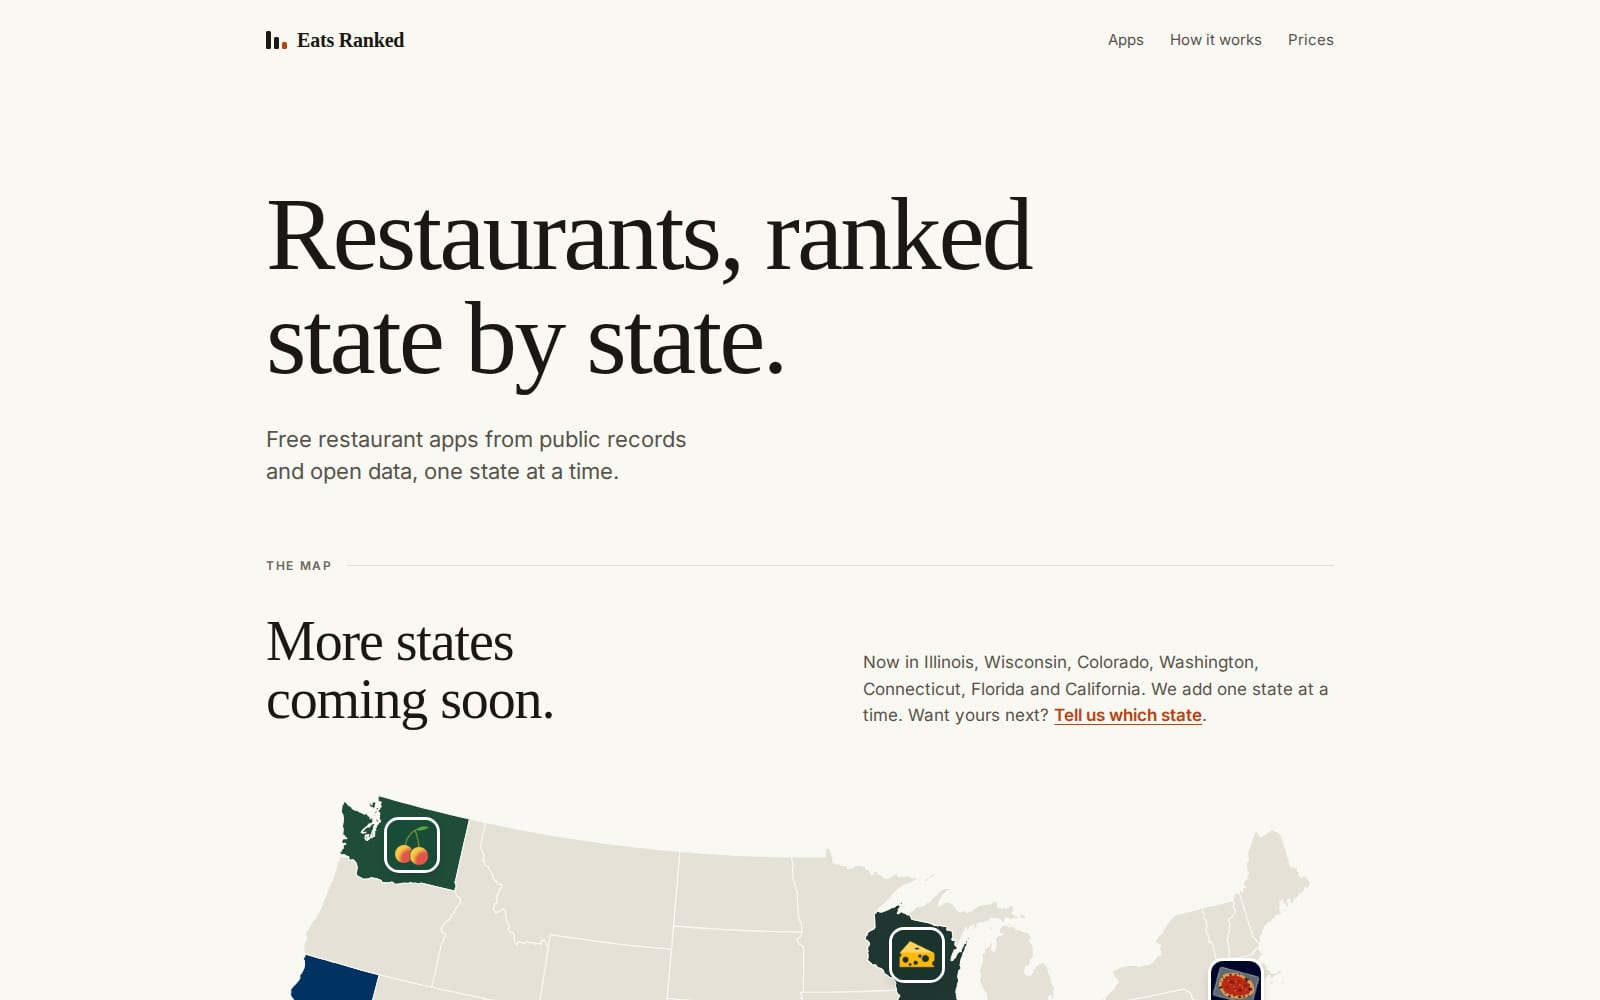
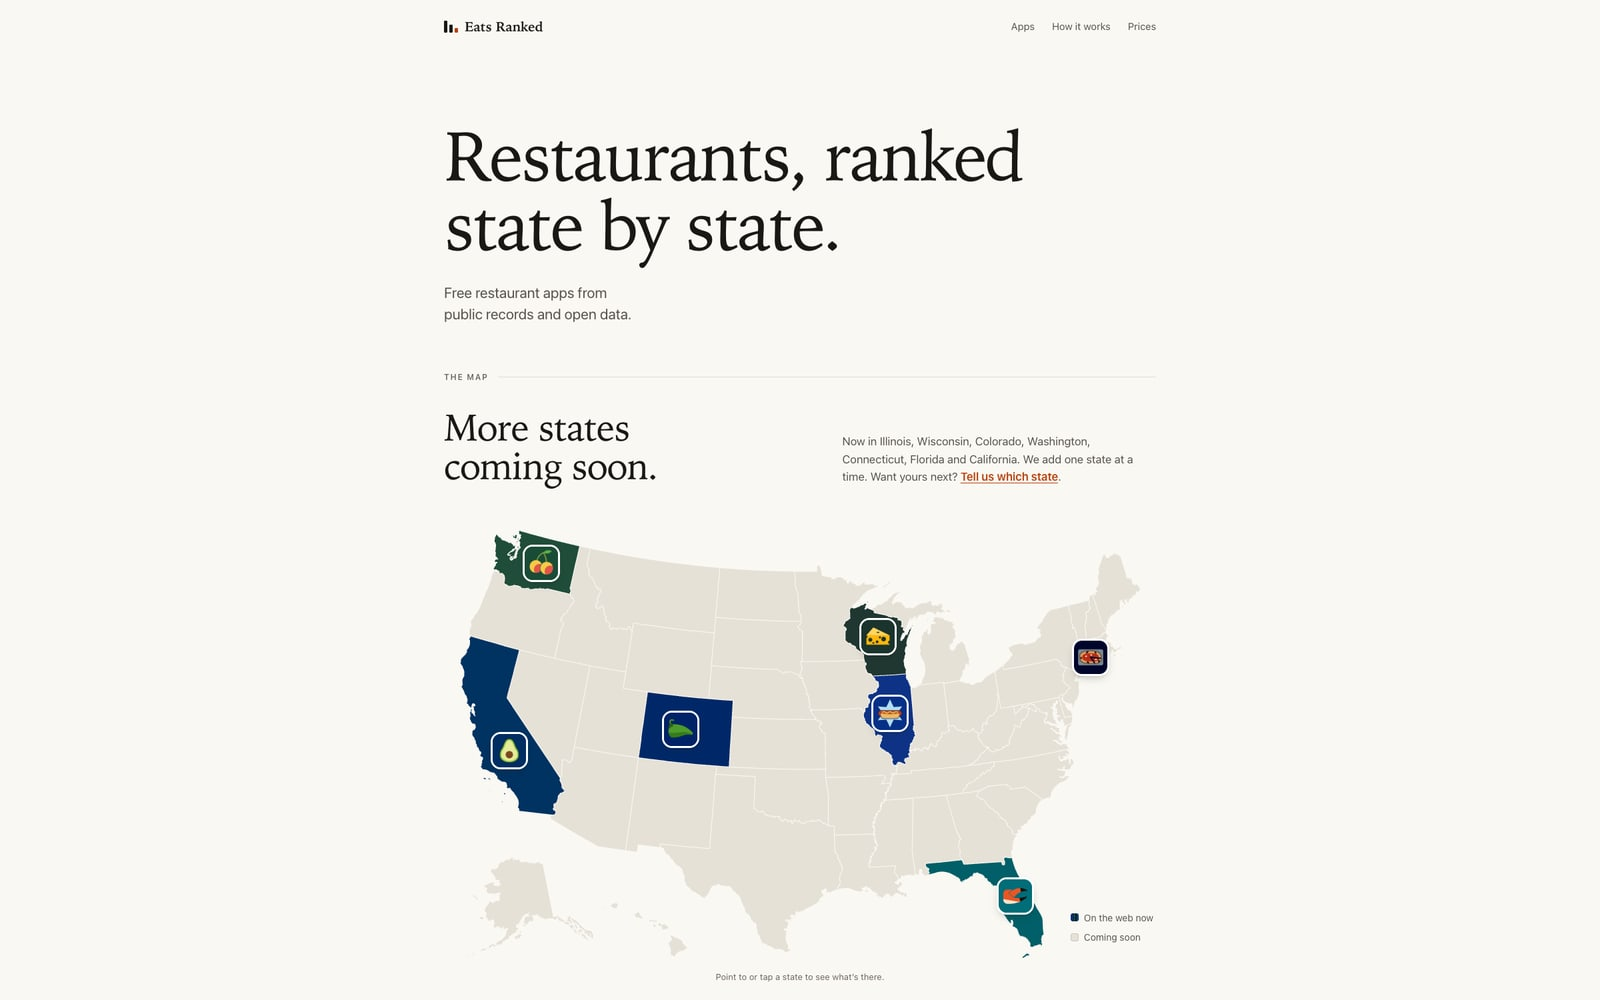
Eats Ranked: present the whole family, fresh eatsranked.com shots, one button (#75)
- The story reads as the Eats Ranked family: blocks are 'Inspection records', 'Local favorites', 'One state at a
  time' and 'Kept current', with states as examples (LA County inspections, Seattle teriyaki, the Connecticut site,
  Chicago's weekly refresh), not a Wisconsin or Chicago page.
- New captures of the live eatsranked.com (map first, the new shared-style state icons) and the guide cards.
- Only the 'Visit eatsranked.com' button; status 'Live on the web in seven states · iPhone and iPad apps coming soon'.
- Corrected App Review claims: only Wisconsin Eats has been submitted; none is on the App Store yet (also apps.json).
- apps.astro: laptop heroes (Eats Ranked, LaunchNeat, This website, SignalRig) go one column at phone/tablet widths.
- Removed showcase images nothing references any more.

diff --git a/src/data/showcase.ts b/src/data/showcase.ts
@@ -120,47 +120,48 @@ export const projects: Project[] = [
     tone: 'light',
     hero: {
       title: 'Where to eat, from the public record.',
-      sub: 'Eats Ranked is a set of free restaurant guides, one per state, built from public records, open map data and cited public sources. Each state gets an iPhone and iPad app, a website and a web version, plus lists of local favorites checked one place at a time, from Wisconsin fish fries to New Haven apizza. Seven states are live on the web, and the first two apps, Chicago and Wisconsin, have been submitted to Apple for review.',
+      sub: 'Eats Ranked is a family of free restaurant guides, one per state, built from public records, open map data and cited public sources. Each state gets its own iPhone and iPad app, a website and a web version, with local favorites checked one place at a time, from Wisconsin fish fries to New Haven apizza. Seven states are live on the web, and the first app, Wisconsin Eats, has been submitted to Apple.',
       screen: 'image',
-      image: '/showcase/eatsranked-chicago-home.jpg',
-      alt: 'Chicago Restaurants: Ranked on iPhone: the home screen with Cleanest Kitchens, Hot Dogs & Beef, Michelin & Beard and Chicago Icons',
+      image: '/showcase/eatsranked-guides.jpg',
+      frame: 'laptop',
+      alt: 'eatsranked.com, Restaurant guides by state: the cards for Chicago Restaurants: Ranked, Wisconsin Eats, Colorado Eats and Washington Eats, each with its icon, its tagline, a link to its website and “Coming soon to the App Store”',
     },
     siteShot: {
       desktop: '/showcase/eatsranked-site.jpg',
-      caption: 'eatsranked.com: one static page generated from a single data file of states and prices, with a map of the live states, a card for each and a restaurant-prices section built from Bureau of Labor Statistics data. No cookies, no analytics, no requests to other sites.',
+      caption: 'eatsranked.com: one static page generated from a single data file of states and prices. It opens with a map of the live states, and each state’s icon links to its site; further down are a card for each app and a restaurant-prices section built from Bureau of Labor Statistics data. No cookies, no analytics, no requests to other sites.',
       url: 'https://eatsranked.com',
     },
     features: [
       {
-        eyebrow: 'Chicago Restaurants: Ranked',
-        title: 'A letter grade the City doesn’t give.',
-        body: 'Chicago records inspection results such as Pass, Pass with Conditions or Fail, never a letter grade. The app turns the results since January 2023 into a 0–100 score and an A–F grade for more than 7,000 Chicago restaurants, and every screen that shows a grade says it is the app’s own, not the City’s. Around them: boards like Hot Dogs & Beef and Michelin & Beard, and 17,000+ more restaurants elsewhere in Illinois.',
+        eyebrow: 'Inspection records',
+        title: 'Inspection results, as each agency publishes them.',
+        body: 'Where an agency’s inspection data can be used, the apps show its results as recorded and never re-grade them: Florida’s statewide inspection results, LA County’s letter grades, King County’s food safety ratings. Search-only portals and data published without a license are left out. Chicago records results such as Pass, Pass with Conditions or Fail but no letter grade, so the Chicago app adds its own: a 0–100 score and an A–F grade from the results since January 2023, for more than 7,000 restaurants. Every screen that shows a grade says it is the app’s, not the City’s.',
         screen: 'image',
-        image: '/showcase/eatsranked-chicago-place.jpg',
-        alt: 'Chicago Restaurants: Ranked place page for Au Cheval: the app’s own A grade (not the City’s), an inspection score of 84/100 and its City inspection record since January 2023',
+        image: '/showcase/eatsranked-california-inspections.jpg',
+        alt: 'California Eats on iPhone, the Inspections guide: LA County’s official score and letter grade at the latest inspection, as LA County records them, with the note “We never compute a grade of our own”; 25,591 places, best latest result first, the first three Grade A with a score of 100',
       },
       {
-        eyebrow: 'Wisconsin Eats',
-        title: 'Friday fish fry, checked one place at a time.',
-        body: 'The guides list 402 Friday fish fries (313 of them with the fish they serve), 211 supper clubs and 28 frozen custard stands. Research agents checked each one against a 2025–26 source, such as its own site or menu or a dated news story. Around them sit 16,346 restaurants in 828 towns. The app stores no ratings or reviews: ratings, hours and photos open in Apple Maps’ own place card.',
+        eyebrow: 'Local favorites',
+        title: 'Each state’s own food, checked one place at a time.',
+        body: 'From Wisconsin on, every app has guides to its state’s food traditions: fish fries and supper clubs in Wisconsin, green chile in Colorado, Seattle teriyaki in Washington, New Haven apizza in Connecticut, stone crabs and Cuban sandwiches in Florida, taquerías and dim sum in California. Research agents checked each place against a 2025–26 source, such as its own site or menu or a dated news story, and the guides list only places checked open. Wisconsin’s alone has 402 Friday fish fries and 211 supper clubs. The apps store no customer reviews or star ratings; ratings, hours and photos open in Apple Maps’ own place card.',
         screen: 'image',
-        image: '/showcase/eatsranked-wisconsin-fishfry.jpg',
-        alt: 'Wisconsin Eats on iPhone: the Friday Fish Fry guide, 402 places sorted nearest first',
+        image: '/showcase/eatsranked-washington-teriyaki.jpg',
+        alt: 'Washington Eats on iPhone, one of the seven apps: the Seattle Teriyaki guide, hand-checked teriyaki counters statewide with what each one serves, 179 places sorted nearest first',
         flip: true,
       },
       {
         eyebrow: 'One state at a time',
         title: 'Five more states live in four days.',
-        body: 'Chicago and Wisconsin came first, in late September. Between October 5 and 8, Colorado, Washington, Connecticut, Florida and California went live on the web, each built on the Wisconsin model and fitted to what each state or county publishes: Florida’s statewide inspection results, LA County’s grades, King County’s food safety ratings. In these five apps, official results are shown as recorded, never re-graded.',
+        body: 'Chicago and Wisconsin came first, in late September. Between October 5 and 8, Colorado, Washington, Connecticut, Florida and California went live on the web, each built from one shared playbook and fitted to what its state, counties and cities publish, with its own name, icon, palette and guides. What one state’s QA round catches goes into the playbook for the next.',
         screen: 'image',
-        image: '/showcase/eatsranked-map.jpg',
-        alt: 'eatsranked.com map of the United States with Washington, California, Colorado, Wisconsin, Illinois, Connecticut and Florida filled in',
+        image: '/showcase/eatsranked-connecticut-site.jpg',
+        alt: 'The Connecticut Eats website, one of the five: its own navy and tomato-red palette, its apizza icon, links to its Apizza, Lobster rolls, Hot dogs and Diners guides, and counts of 27 apizza places, 58 lobster roll and clam shack stops, 45 diners and dairy bars and 9,358 restaurants statewide',
         frame: 'laptop',
       },
       {
-        eyebrow: 'Fresh every week',
-        title: 'New City records, checked before they ship.',
-        body: 'A Python pipeline, scheduled for every Monday, refetches Chicago’s records and publishes only if every check passes: Chicago counts within 5% of the data already published, no more than 10% of grades changed, and a spot check of changed grades against the City’s own data. The app downloads the new data without an app update, and the web version reads the same files.',
+        eyebrow: 'Kept current',
+        title: 'Chicago’s new records, checked before they ship.',
+        body: 'Of the seven apps, the Chicago app is the one that refreshes its data every week, because the City keeps adding inspection results. A Python pipeline scheduled for every Monday refetches the City’s records and publishes only if every check passes: Chicago counts within 5% of the data already published, no more than 10% of grades changed, and a spot check of changed grades against the City’s own data. The app downloads the new data without an app update, and the web version reads the same files.',
         screen: 'image',
         image: '/showcase/eatsranked-chicago-map.jpg',
         alt: 'Chicago Restaurants: Ranked map of the North Side with restaurant pins colored by the app’s own A–F grade',
@@ -177,14 +178,12 @@ export const projects: Project[] = [
       { title: 'Start with one city', ai: 'Turned Chicago’s inspection records into a score and an A–F grade, built the iPhone app and wrote an App Review and legal-risk audit before launch.', me: 'Set the app’s rules: no Google data, no customer reviews or star ratings, no Yelp.' },
       { title: 'Then a second state', ai: 'Built Wisconsin Eats from the Chicago app’s structure, with research agents checking each fish fry and supper club against a 2025–26 source.', me: 'Decided the name should cover restaurants in general, with fish fry and supper clubs as the tagline, and chose one domain with a site per state instead of buying wisconsineats.com.' },
       { title: 'A hub and five more', ai: 'Built eatsranked.com from one data file, then Colorado, Washington, Connecticut, Florida and California, each fitted to whatever inspection data its state or local health agencies publish.', me: 'Chose each state’s icon (a Pueblo green chile, not a peach) and made the licensing calls.' },
-      { title: 'Ship and keep it current', ai: 'Set up the weekly Chicago data refresh with its checks, and wrote the App Store listings and review replies.', me: 'Submitted the first two apps, Chicago and Wisconsin, for App Review. Neither is on the App Store yet.' },
+      { title: 'Ship and keep it current', ai: 'Set up the weekly Chicago data refresh with its checks, and wrote the App Store listings and review replies.', me: 'Submitted the first app, Wisconsin Eats, for App Review on September 28; Apple asked for more information. None of the apps is on the App Store yet.' },
     ],
     links: [
       { label: 'Visit eatsranked.com', href: 'https://eatsranked.com', primary: true },
-      { label: 'chicago.eatsranked.com', href: 'https://chicago.eatsranked.com' },
-      { label: 'wisconsin.eatsranked.com', href: 'https://wisconsin.eatsranked.com' },
     ],
-    status: 'Live on the web in seven states · first apps submitted for App Review',
+    status: 'Live on the web in seven states · iPhone and iPad apps coming soon',
   },
   {
     id: 'goodwalk',
